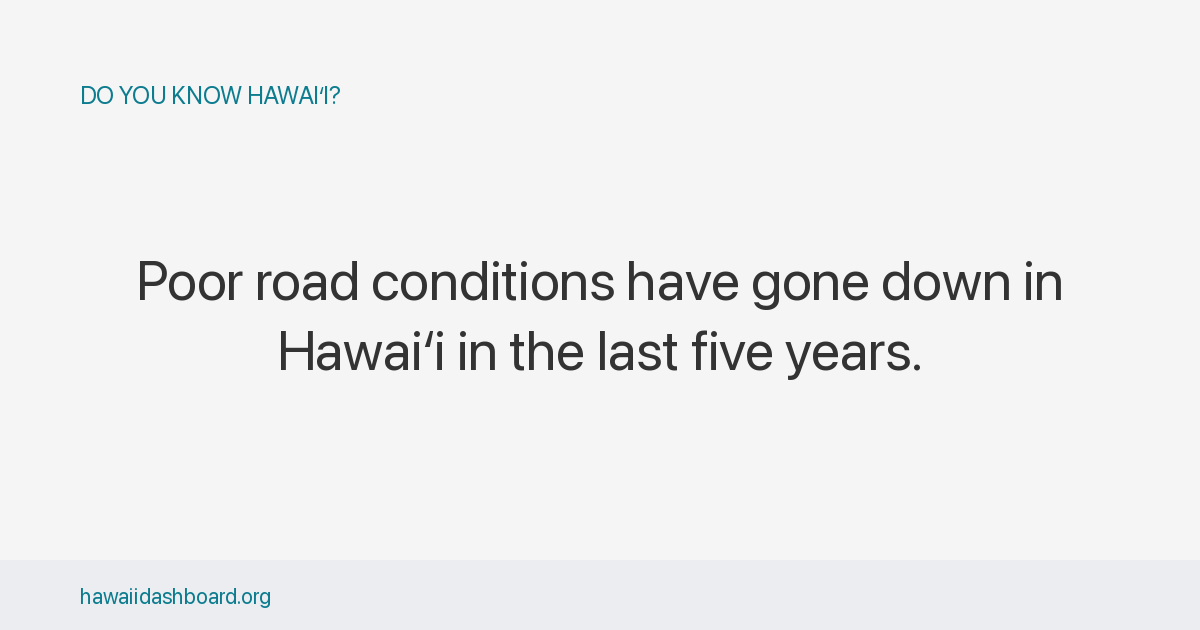
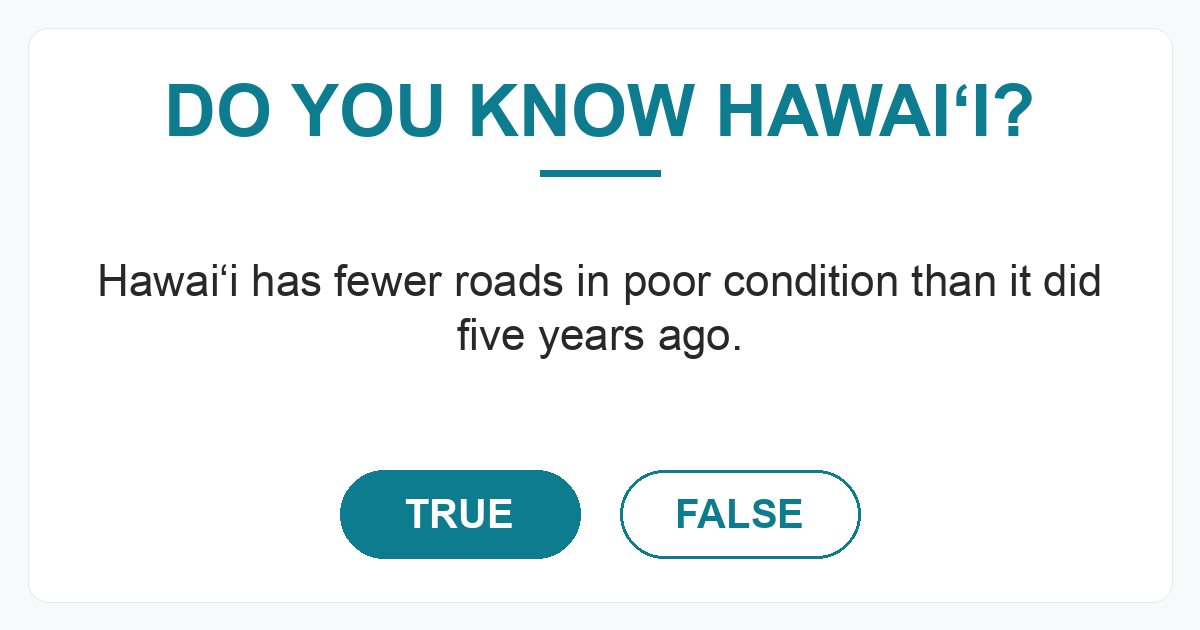
qotd: reword q060 road-conditions claim
"Hawaiʻi has fewer roads in poor condition than it did five years
ago." reads more naturally than the prior "Poor road conditions have
gone down..." passive construction.

Same metric (road_poor_pct), same data, same chart, same answer.
Underlying trend: 2018 24.3% → 2023 21.6% (-11.0%), passes V6
≥5% threshold.

Regenerates the matching OG card and /q/q060/ redirect page. Also
catches up /q/q056/ redirect HTML, which the previous claim-tweak
commit (3b383635) missed.

diff --git a/q/q056/index.html b/q/q056/index.html
@@ -13,7 +13,7 @@
   <meta name="twitter:card" content="summary_large_image">
   <meta name="twitter:title" content="Do you know Hawaiʻi?">
   <meta name="twitter:image" content="https://hawaiidashboard.org/assets/og/q/renewable-electricity-has-gone-up-in-hawaii-in-the-last-five-years.png">
-  <meta name="description" content="Hawaiʻi gets more electricity from renewables than five years ago.">
+  <meta name="description" content="Hawaiʻi gets more electricity from renewables today than five years ago.">
   <link rel="canonical" href="https://hawaiidashboard.org/q/q056/">
   <script>window.location.replace("/?from_q=q056");</script>
   <meta http-equiv="refresh" content="0;url=https://hawaiidashboard.org/?from_q=q056">
@@ -22,7 +22,7 @@
   <p>Redirecting to <a href="https://hawaiidashboard.org/?from_q=q056">Do you know Hawaiʻi?</a>&hellip;</p>
   <article style="max-width:640px;margin:2rem auto;padding:0 1rem;font-family:-apple-system,BlinkMacSystemFont,'Segoe UI',sans-serif;color:#333;line-height:1.55;">
     <p style="color:#888;font-size:0.875rem;text-transform:uppercase;letter-spacing:0.05em;margin:0;">Do you know Hawaiʻi?</p>
-    <p style="margin:0.25rem 0 1rem;font-size:1.25rem;font-weight:600;">Hawaiʻi gets more electricity from renewables than five years ago.</p>
+    <p style="margin:0.25rem 0 1rem;font-size:1.25rem;font-weight:600;">Hawaiʻi gets more electricity from renewables today than five years ago.</p>
     <p><strong>True.</strong> Hawaiʻi's renewable share of electricity went from 15.9% to 22.1% between 2020 and 2025 (+38.9%).</p>
     <p style="margin-top:1.5rem;"><a href="/t/renewables_share_gen/">See the data &rarr;</a></p>
   </article>

diff --git a/q/q060/index.html b/q/q060/index.html
@@ -13,7 +13,7 @@
   <meta name="twitter:card" content="summary_large_image">
   <meta name="twitter:title" content="Do you know Hawaiʻi?">
   <meta name="twitter:image" content="https://hawaiidashboard.org/assets/og/q/poor-road-conditions-have-gone-down-in-hawaii-in-the-last-five-years.png">
-  <meta name="description" content="Poor road conditions have gone down in Hawaiʻi in the last five years.">
+  <meta name="description" content="Hawaiʻi has fewer roads in poor condition than it did five years ago.">
   <link rel="canonical" href="https://hawaiidashboard.org/q/q060/">
   <script>window.location.replace("/?from_q=q060");</script>
   <meta http-equiv="refresh" content="0;url=https://hawaiidashboard.org/?from_q=q060">
@@ -22,7 +22,7 @@
   <p>Redirecting to <a href="https://hawaiidashboard.org/?from_q=q060">Do you know Hawaiʻi?</a>&hellip;</p>
   <article style="max-width:640px;margin:2rem auto;padding:0 1rem;font-family:-apple-system,BlinkMacSystemFont,'Segoe UI',sans-serif;color:#333;line-height:1.55;">
     <p style="color:#888;font-size:0.875rem;text-transform:uppercase;letter-spacing:0.05em;margin:0;">Do you know Hawaiʻi?</p>
-    <p style="margin:0.25rem 0 1rem;font-size:1.25rem;font-weight:600;">Poor road conditions have gone down in Hawaiʻi in the last five years.</p>
+    <p style="margin:0.25rem 0 1rem;font-size:1.25rem;font-weight:600;">Hawaiʻi has fewer roads in poor condition than it did five years ago.</p>
     <p><strong>True.</strong> Hawaiʻi's share of poor-condition roads went from 24.3% to 21.6% between 2018 and 2023 (-11.0%).</p>
     <p style="margin-top:1.5rem;"><a href="/t/road_poor_pct/">See the data &rarr;</a></p>
   </article>

diff --git a/js/questions.js b/js/questions.js
@@ -347,7 +347,7 @@ const QOTD_QUESTIONS = [
   {
     "id": "q060",
     "slug": "poor-road-conditions-have-gone-down-in-hawaii-in-the-last-five-years",
-    "claim": "Poor road conditions have gone down in Hawaiʻi in the last five years.",
+    "claim": "Hawaiʻi has fewer roads in poor condition than it did five years ago.",
     "correct": true,
     "answer": "Hawaiʻi's share of poor-condition roads went from 24.3% to 21.6% between 2018 and 2023 (-11.0%).",
     "chartUrl": "/t/road_poor_pct/",
